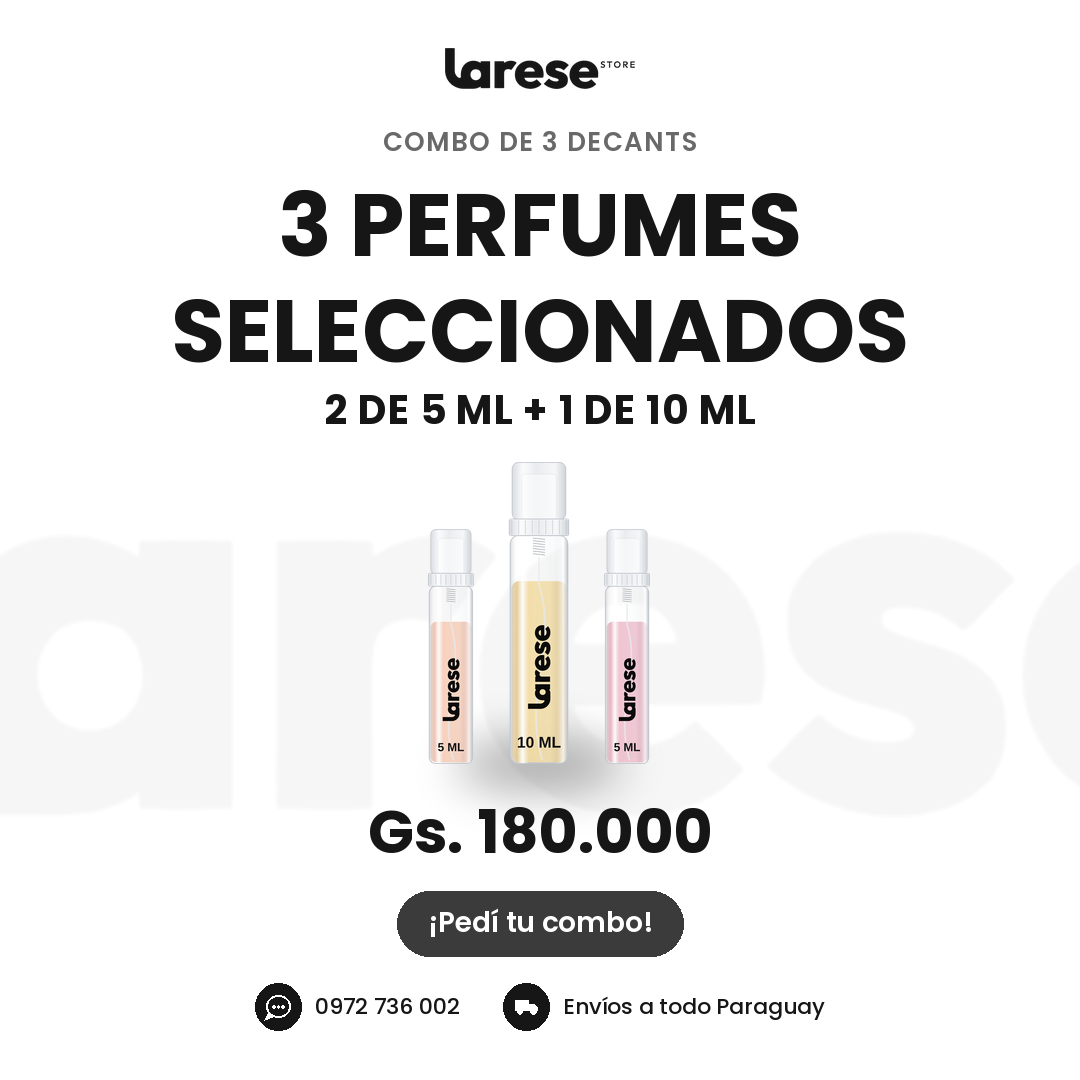
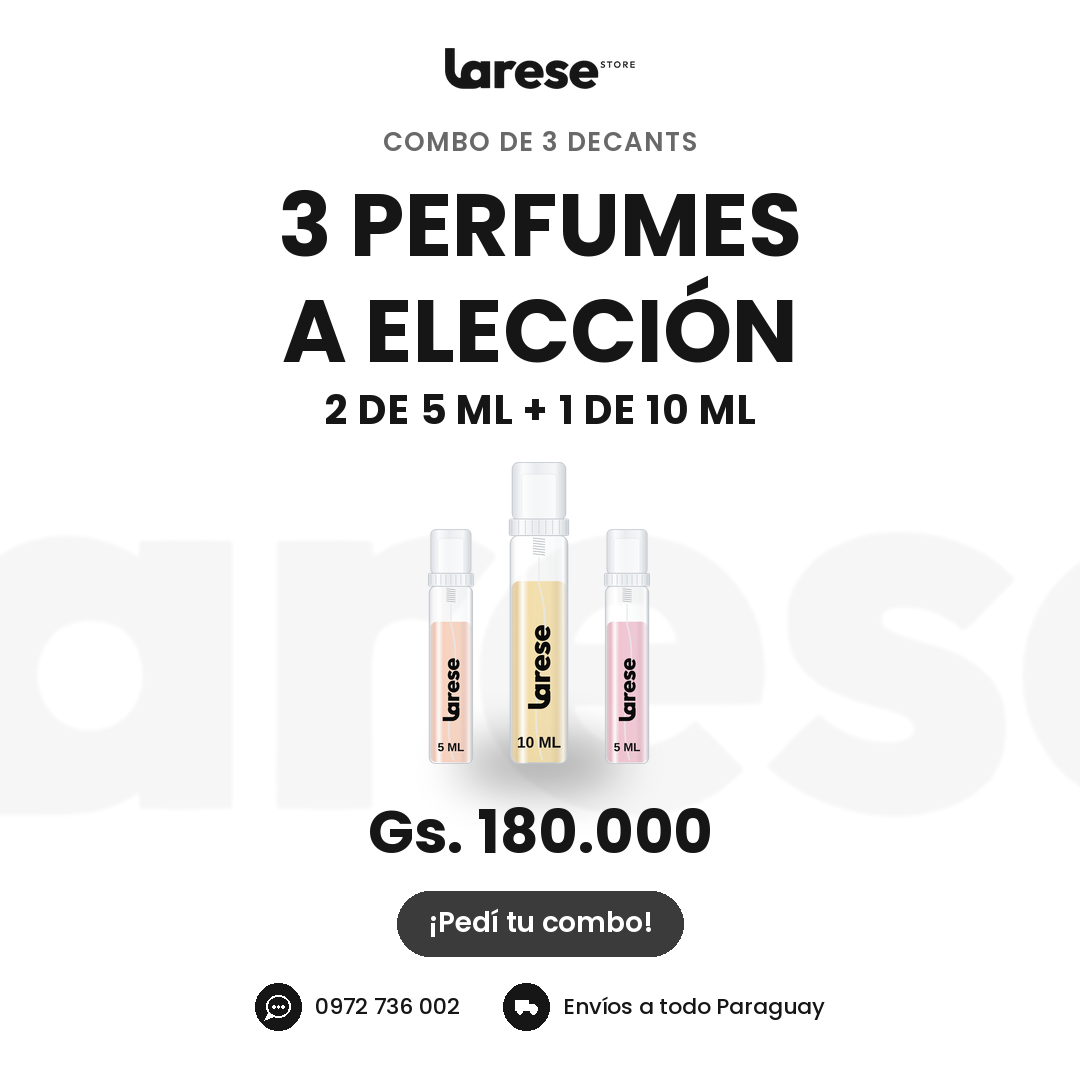
Change combo ad title to '3 perfumes a elección'
Line wrapping in the piece script now only breaks on regular spaces,
so a non-breaking space keeps two words together.

Claude-Session: https://claude.ai/code/session_01DnzkNK1T1WT3rN6sKDYKp9

Changed region(s): [[0.1528, 0.2444, 0.8556, 0.3361]]

diff --git a/herramientas/pieza-fondo-blanco/scripts/crear_pieza.py b/herramientas/pieza-fondo-blanco/scripts/crear_pieza.py
@@ -139,8 +139,11 @@ def txt(d, cx, y, t, f, color=TEXTO, esp=0):
 
 
 def envolver(d, t, f, maxw, esp=0):
+    # Solo corta en espacios comunes: un espacio duro (\u00a0) mantiene juntas dos palabras
     lineas, act = [], ""
-    for p in t.split():
+    for p in t.split(" "):
+        if not p:
+            continue
         prueba = (act + " " + p).strip()
         if ancho_txt(d, prueba, f, esp) <= maxw:
             act = prueba
